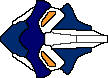
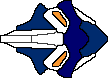
Snek Head is moving around. Adjusted sprites to be right facing

diff --git a/Sneks/src/Systems/SnekSystem.cpp b/Sneks/src/Systems/SnekSystem.cpp
@@ -3,6 +3,7 @@
 #include "../Components/InvulnerableComponent.h"
 #include "../Components/PhysicsComponent.h"
 #include "../Components/CollisionComponent.h"
+#include "../Components/FollowComponent.h"
 
 SnekSystem::SnekSystem(EntityManager* entityManagerPtr, GraphicsSystem* graphics)
 : BaseSystem(entityManagerPtr)
@@ -17,25 +18,89 @@ void SnekSystem::Update(float dt)
 		m_po_ComponentManager->GetFirstComponentInstance(kComponentSnekHead));
 
 	while (i_SnekHead) {
-		auto i_InvulComponent = static_cast<InvulnerableComponent*>(
+		auto headInvulComponent = static_cast<InvulnerableComponent*>(
 			m_po_ComponentManager->GetSpecificComponentInstance(
-				(i_SnekHead), KComponentInvulnerable
+				(i_SnekHead->m_po_OwnerEntity), KComponentInvulnerable
 			));
 
-		auto i_DrawComponent = static_cast<DrawComponent*>(
+		auto headDrawComponent = static_cast<DrawComponent*>(
 			m_po_ComponentManager->GetSpecificComponentInstance(
-				(i_SnekHead), KComponentInvulnerable
+				(i_SnekHead->m_po_OwnerEntity), kComponentDraw
 			));
 
-		if (i_InvulComponent->m_f_InvulnerableTime > 0)
+		if (headInvulComponent->m_f_InvulnerableTime > 0)
 		{
-			i_DrawComponent->SetAlpha(0.33f);
-			i_InvulComponent->m_f_InvulnerableTime -= dt;
+			headDrawComponent->SetAlpha(0.33f);
+			headInvulComponent->m_f_InvulnerableTime -= dt;
 		}
-		else if (i_DrawComponent->m_f_RgbaColor.alpha != 1.0f)
+		else if (headDrawComponent->m_f_RgbaColor.alpha != 1.0f)
 		{
-			i_DrawComponent->SetAlpha(1.0f);
+			headDrawComponent->SetAlpha(1.0f);
 		}
+
+		auto headPhysicsComponent = static_cast<PhysicsComponent*>(
+			m_po_ComponentManager->GetSpecificComponentInstance(
+				i_SnekHead->m_po_OwnerEntity, kComponentPhysics));
+
+
+		if (GetAsyncKeyState(i_SnekHead->m_i_AccelerationKey)) {
+			headPhysicsComponent->m_f_Acceleration = i_SnekHead->m_f_AccelerationForce;
+			//SetVelocity(GetVelocity() - kAccelerationForce);
+		}else
+		{
+			headPhysicsComponent->m_f_Acceleration = 0;
+		}
+		if (GetAsyncKeyState(i_SnekHead->m_i_LeftKey))
+		{
+			headPhysicsComponent->m_po_TransformComponent->SetRotation(
+				headPhysicsComponent->m_po_TransformComponent->GetRotation() +
+				i_SnekHead->m_f_TurnSpeed * dt
+			);
+		}
+		else if (GetAsyncKeyState(i_SnekHead->m_i_RightKey))
+		{
+			headPhysicsComponent->m_po_TransformComponent->SetRotation(
+				headPhysicsComponent->m_po_TransformComponent->GetRotation() -
+				i_SnekHead->m_f_TurnSpeed * dt
+			);
+		}
+
+		for (auto i_Body : i_SnekHead->m_x_BodyParts)
+		{
+			auto bodyDraw = static_cast<DrawComponent*>(
+				m_po_ComponentManager->GetSpecificComponentInstance(
+					i_Body, kComponentDraw
+				));
+
+			auto followComponent = static_cast<FollowComponent*>(
+				m_po_ComponentManager->GetSpecificComponentInstance(
+					i_Body, kComponentFollow
+				));
+
+			auto followDrawComponent = static_cast<DrawComponent*>(
+				m_po_ComponentManager->GetSpecificComponentInstance(
+					followComponent->m_po_OwnerEntity, kComponentDraw
+				));
+			
+			FaceReference(followComponent->m_po_TransformComponent, bodyDraw->m_po_TransformComponent);
+			MoveTowardsReference(followDrawComponent, bodyDraw);
+		}
+		/*
+		else if (GetAsyncKeyState(i_SnekHead->m_i_BrakeKey) && (GetVelocity() < 0)) {
+			SetVelocity(GetVelocity() + kBrakeForce);
+			//m_px_Particles->SetTexture(m_px_SnekHedSmoke);
+			//DrawParticles();
+		}
+
+		if (GetAsyncKeyState(i_SnekHead->m_i_LeftKey) && (GetVelocity() <= -kTurnMinSpeed)) {
+			SetRotation(GetRotation() + kTurnSpeed * dt);
+			//m_px_Texture = m_px_SnekHedL;
+		}
+		else if (GetAsyncKeyState(i_SnekHead->m_i_RightKey) && (GetVelocity() <= -kTurnMinSpeed)) {
+			SetRotation(GetRotation() - kTurnSpeed * dt);
+			//m_px_Texture = m_px_SnekHedR;
+		}*/
+
 		//TODO
 		/*m_f_Boost += m_f_BoostGainRate * dt * 10;
 
@@ -246,6 +311,22 @@ void SnekSystem::CreateSnekBody(SnekHeadEntity* owner, const char* textureName) 
 		m_po_ComponentManager->GetSpecificComponentInstance(
 		owner, kComponentSnekHead));
 
+	auto followComponent = static_cast<FollowComponent*>(
+		m_po_ComponentManager->GetSpecificComponentInstance(
+			newSnekBodyEntity, kComponentFollow));
+
+	if (ownerHeadComponent->m_x_BodyParts.empty())
+	{
+		followComponent->m_po_TransformComponent = ownerTransform;
+	}
+	else
+	{
+		auto toFollowTransform = static_cast<TransformComponent*>(
+			m_po_ComponentManager->GetSpecificComponentInstance(
+				ownerHeadComponent->m_x_BodyParts.back(), kComponentTransform));
+
+		followComponent->m_po_TransformComponent = toFollowTransform;
+	}
 	ownerHeadComponent->m_x_BodyParts.push_back(newSnekBodyEntity);
 
 }
@@ -266,22 +347,23 @@ void SnekSystem::FaceReference(const TransformComponent* reference, TransformCom
 		newRot -= 2 * PI;
 
 	toChange->SetRotation(newRot);
+	toChange->m_f_Scale = reference->m_f_Scale;
 
 }
 
-void SnekSystem::MoveTowardsReference(const DrawComponent* reference, DrawComponent* toChange) const
+void SnekSystem::MoveTowardsReference(DrawComponent* reference, DrawComponent* toChange) const
 {
-	FaceReference(reference->m_po_TransformComponent, toChange->m_po_TransformComponent);
+	//FaceReference(reference->m_po_TransformComponent, toChange->m_po_TransformComponent);
 
-	float distanceX = toChange->m_po_TransformComponent->m_x_Position.x 
-		- reference->m_po_TransformComponent->m_x_Position.x;
-	float distanceY = toChange->m_po_TransformComponent->m_x_Position.y 
-		- reference->m_po_TransformComponent->m_x_Position.y;
+	float distanceX = toChange->m_po_TransformComponent->m_x_Position.x -
+		 reference->m_po_TransformComponent->m_x_Position.x;
+	float distanceY = toChange->m_po_TransformComponent->m_x_Position.y -
+		 reference->m_po_TransformComponent->m_x_Position.y;
 
 	float distanceXySquared = distanceX * distanceX + distanceY * distanceY;
 
 	//TODO
-	if (fabsf(distanceX) > reference->GetSizeX() * toChange->m_po_TransformComponent->m_f_Scale / 2 || 1) {
+	if (fabsf(distanceX) > reference->GetSizeX() * toChange->m_po_TransformComponent->m_f_Scale / 2) {
 		toChange->m_po_TransformComponent->m_x_Position.x = 
 			reference->m_po_TransformComponent->m_x_Position.x + distanceX * 0.7f;
 
@@ -291,7 +373,6 @@ void SnekSystem::MoveTowardsReference(const DrawComponent* reference, DrawCompon
 	}
 
 	//TODO CHANGE SCALE
-	toChange->m_po_TransformComponent->m_f_Scale = reference->m_po_TransformComponent->m_f_Scale;
 	/*float distanceXySquared = distanceX * distanceX + distanceY * distanceY;
 
 	//cap max distance for speed calculations at 500
@@ -324,6 +405,7 @@ void SnekSystem::MoveTowardsReference(const DrawComponent* reference, DrawCompon
 	m_x_Position.y += directionVector.y * m_f_Speed * 300 * dt;*/
 }
 
+/* THIS HAS BEEN MOVED TO PHYSICS
 void SnekSystem::CheckOutOfBounds(TransformComponent* transformComponent) const
 {
 	//if out of screen, clamp movement
@@ -338,3 +420,4 @@ void SnekSystem::CheckOutOfBounds(TransformComponent* transformComponent) const
 	else if (transformComponent->m_x_Position.y < AEGfxGetWinMinY() - 2 * 1080)// - m_f_SizeY / 2)
 		transformComponent->m_x_Position.y = AEGfxGetWinMinY() - 2 * 1080;// -m_f_SizeY / 2;
 }
+*/

diff --git a/Sneks/src/Systems/PhysicsSystem.cpp b/Sneks/src/Systems/PhysicsSystem.cpp
@@ -68,8 +68,18 @@ void PhysicsSystem::Update(float dt)
 
 	while (i_PhysicsComponent)
 	{
+		// Snek checks
+		for (auto component : i_PhysicsComponent->m_po_OwnerEntity->m_v_AttachedComponentsList) {
+			//only if its a head
+			if (component->m_x_ComponentID == kComponentSnekHead) {
+				CheckOutOfBounds(i_PhysicsComponent->m_po_TransformComponent);
+				ClampVelocity(i_PhysicsComponent, static_cast<SnekHeadComponent*>(component));
+			}
+		}
+
 		ApplyAcceleration(i_PhysicsComponent, dt);
 		ApplyVelocity(i_PhysicsComponent, dt);
+
 		i_PhysicsComponent = static_cast<PhysicsComponent*>(i_PhysicsComponent->m_po_NextComponent);
 	}
 	/*
@@ -171,25 +181,44 @@ HTVector2 PhysicsSystem::CalculateVelocity(PhysicsComponent* physicsComponent) c
 	return forwardVelocity;
 }
 
-void PhysicsSystem::ClampVelocity(PhysicsComponent* physicsComponent, const SnekHeadComponent snekHeadComponent) const
+void PhysicsSystem::ClampVelocity(PhysicsComponent* physicsComponent, SnekHeadComponent* snekHeadComponent) const
 {
-	if (physicsComponent->m_f_Speed >= -snekHeadComponent.m_f_MinSpeed &&
-			physicsComponent->m_f_Speed <= snekHeadComponent.m_f_MinSpeed)
-		physicsComponent->m_f_Speed = -snekHeadComponent.m_f_IdleSpeed;
-	else if (physicsComponent->m_f_Speed < 0)
-		physicsComponent->m_f_Speed += snekHeadComponent.m_f_Friction;
-	else if (physicsComponent->m_f_Speed > 0)
-		physicsComponent->m_f_Speed -= snekHeadComponent.m_f_Friction;
+	//std::cout << "Accel: " << physicsComponent->m_f_Acceleration << ", " << physicsComponent->m_f_Speed << std::endl;
+	if (physicsComponent->m_f_Acceleration == 0) {
+		if (physicsComponent->m_f_Speed < snekHeadComponent->m_f_IdleSpeed)
+			physicsComponent->m_f_Speed = snekHeadComponent->m_f_IdleSpeed;		
+		else if (physicsComponent->m_f_Speed < 0)
+			physicsComponent->m_f_Speed += snekHeadComponent->m_f_Friction;
+		else if (physicsComponent->m_f_Speed > 0)
+			physicsComponent->m_f_Speed -= snekHeadComponent->m_f_Friction;
+	}
 }
 
 void PhysicsSystem::ApplyAcceleration(PhysicsComponent* physicsComponent, float dt) const
 {
 	//Clamp percentage higher when speed is higher, so less acceleration when speed high
-	float accelClamp = 1.0f - physicsComponent->m_f_Speed / physicsComponent->m_f_MaxSpeed;
+	float accelClamp = 1.0f - fabsf(physicsComponent->m_f_Speed / physicsComponent->m_f_MaxSpeed);
+	
 	if (accelClamp < 0)
 		accelClamp = 0;
 	else if (accelClamp > 1.0f)
 		accelClamp = 1.0f;
-	physicsComponent->m_x_Acceleration *= accelClamp;
-	physicsComponent->m_f_Speed += physicsComponent->m_x_Acceleration * dt;
+
+	auto clampedAccel = physicsComponent->m_f_Acceleration * accelClamp;
+	physicsComponent->m_f_Speed += clampedAccel * dt;
+}
+
+void PhysicsSystem::CheckOutOfBounds(TransformComponent* transformComponent) const
+{
+	//if out of screen, clamp movement
+	if (transformComponent->m_x_Position.x > AEGfxGetWinMaxX() + 2 * 1920)// + m_f_SizeX / 2)
+		transformComponent->m_x_Position.x = AEGfxGetWinMaxX() + 2 * 1920; // +m_f_SizeX / 2;
+	else if (transformComponent->m_x_Position.x < AEGfxGetWinMinX() - 2 * 1920)// - m_f_SizeX / 2)
+		transformComponent->m_x_Position.x = AEGfxGetWinMinX() - 2 * 1920;// -m_f_SizeX / 2;
+
+	//if out of screen, clamp movement
+	if (transformComponent->m_x_Position.y > AEGfxGetWinMaxY() + 2 * 1080)// + m_f_SizeY / 2)
+		transformComponent->m_x_Position.y = AEGfxGetWinMaxY() + 2 * 1080;// +m_f_SizeY / 2;
+	else if (transformComponent->m_x_Position.y < AEGfxGetWinMinY() - 2 * 1080)// - m_f_SizeY / 2)
+		transformComponent->m_x_Position.y = AEGfxGetWinMinY() - 2 * 1080;// -m_f_SizeY / 2;
 }

diff --git a/Sneks/src/Components/SnekHeadComponent.h b/Sneks/src/Components/SnekHeadComponent.h
@@ -9,13 +9,13 @@ class SnekHeadComponent : public BaseComponent
 {
 public:
 	float m_f_MaxVelocity                  = 900;
-	float m_f_AccelerationForce            = 6;
+	float m_f_AccelerationForce            = 200;
 	float m_f_BrakeForce                   = 6;
 	float m_f_TurnSpeed                    = 6;
 	float m_f_Friction                     = 1.5f;	   //natural slowdown
 	float m_f_TurnMinSpeed                 = 60;      //need to be moving at this speed to turn
 	float m_f_MinSpeed                     = 300;	   //if speed lower than this then clamp to 0
-	float m_f_IdleSpeed                    = 450;		//default move speed
+	float m_f_IdleSpeed                    = 100;		//default move speed
 
 	unsigned short m_i_PlayerNumber        = 0;
 	unsigned int   m_i_AccelerationKey     = AEVK_UP;

diff --git a/Sneks/src/ECS/EntityList.h b/Sneks/src/ECS/EntityList.h
@@ -51,8 +51,8 @@ public:
 class SnekBodyEntity : public BaseEntity
 {
 public:
-	Component m_ax_InitialComponents[6] ={ Component::kComponentTransform, Component::kComponentDraw,
-		Component::kComponentPhysics , Component::KComponentInvulnerable, Component::kComponentCollision , Component::kComponentEnd };
+	Component m_ax_InitialComponents[7] ={ Component::kComponentTransform, Component::kComponentDraw,
+		Component::kComponentPhysics , Component::KComponentInvulnerable, Component::kComponentCollision, Component::kComponentFollow, Component::kComponentEnd };
 
 	SnekBodyEntity(const char* entityName) : BaseEntity(entityName) {};
 };

diff --git a/Sneks/src/ECS/ComponentManager.cpp b/Sneks/src/ECS/ComponentManager.cpp
@@ -11,6 +11,7 @@
 #include "../Components/DrawComponent.h"
 #include "../Components/PhysicsComponent.h"
 #include "../Components/CameraComponent.h"
+#include "../Components/FollowComponent.h"
 
 ComponentManager::ComponentManager()
 {
@@ -77,6 +78,10 @@ BaseComponent* ComponentManager::NewComponent(BaseEntity* entityPointer, Compone
 		case kComponentSnekHead: 
 			componentPointer = static_cast<BaseComponent*>(new SnekHeadComponent);
 			break;
+		case kComponentFollow:
+			componentPointer = static_cast<BaseComponent*>(new FollowComponent);
+			break;
+		default: ;
 		}
 
 		if (componentPointer)

diff --git a/Sneks/src/Systems/PhysicsSystem.h b/Sneks/src/Systems/PhysicsSystem.h
@@ -37,7 +37,8 @@ public:
 	void Update(float dt) override;
 	HTVector2 ApplyVelocity(PhysicsComponent* physicsComponent, float dt) const;
 	HTVector2 CalculateVelocity(PhysicsComponent* physicsComponent) const;
-	void ClampVelocity(PhysicsComponent* physicsComponent, SnekHeadComponent snekHeadComponent) const;
+	void ClampVelocity(PhysicsComponent* physicsComponent, SnekHeadComponent* snekHeadComponent) const;
 	void ApplyAcceleration(PhysicsComponent* physicsComponent, float dt) const;
+	void CheckOutOfBounds(TransformComponent* transformComponent) const;
 };
 #endif

diff --git a/Sneks/src/Systems/SnekSystem.h b/Sneks/src/Systems/SnekSystem.h
@@ -20,7 +20,7 @@ public:
 	void CreateSnek(float posX, float posY, float rotation, const int numBodyParts, const char* textureName) const;
 	void CreateSnekBody(SnekHeadEntity* owner, const char* textureName) const;
 	void FaceReference(const TransformComponent* reference, TransformComponent* toChange) const;
-	void MoveTowardsReference(const DrawComponent* reference, DrawComponent* toChange) const;
+	void MoveTowardsReference(DrawComponent* reference, DrawComponent* toChange) const;
 	void CheckOutOfBounds(TransformComponent* transformComponent) const;
 };
 #endif

diff --git a/Sneks/src/ECS/ECSystem.cpp b/Sneks/src/ECS/ECSystem.cpp
@@ -77,7 +77,7 @@ void ECSystem::InitializeEngine()
 	levelLoader->LoadLevel(kLevel1);
 
 	auto snek = new SnekSystem(m_o_EntityComponentManager, graphics);
-	snek->CreateSnek(0, 0, PI, 5, "snake-head.png");
+	snek->CreateSnek(0, 0, PI, 1, "snake-head.png");
 	m_o_SystemManager->AddSystem(snek);
 
 	m_b_EngineStatus = true;

diff --git a/Sneks/src/Components/PhysicsComponent.h b/Sneks/src/Components/PhysicsComponent.h
@@ -11,8 +11,8 @@ class PhysicsComponent : public BaseComponent
 {
 public:
 	float		               m_f_Speed;
-	float		               m_f_MaxSpeed;
-	float							m_x_Acceleration;
+	float		               m_f_MaxSpeed = 900;
+	float							m_f_Acceleration;
 
 	TransformComponent*		m_po_TransformComponent;
 };

diff --git a/Sneks/src/Components/FollowComponent.h b/Sneks/src/Components/FollowComponent.h
@@ -3,11 +3,10 @@
 #pragma once
 
 #include "../ECS/ComponentList.h"
-#include "../Math/HTVector2.h"
 #include "TransformComponent.h"
 
 
-class PhysicsComponent : public BaseComponent
+class FollowComponent : public BaseComponent
 {
 public:
 	TransformComponent*		m_po_TransformComponent;

diff --git a/Sneks/src/Utility/AlphaEngineHelper.cpp b/Sneks/src/Utility/AlphaEngineHelper.cpp
@@ -10,7 +10,7 @@ namespace AlphaEngineHelper {
 		AESysSetWindowTitle("S.N.E.K.S.");
 		AEToogleFullScreen(false);
 		AESysReset();
-		AEGfxSetBackgroundColor(1, 1, 1);
+		AEGfxSetBackgroundColor(1, 1, 0);
 	}
 
 	void GetScreenSize(float* retWidth, float* retHeight)

diff --git a/Sneks/src/ECS/Component.h b/Sneks/src/ECS/Component.h
@@ -14,6 +14,7 @@ enum Component : unsigned char
 	kComponentCollision,
 	KComponentInvulnerable,
 	kComponentSnekHead,
+	kComponentFollow,
 	kComponentEnd
 };
 
